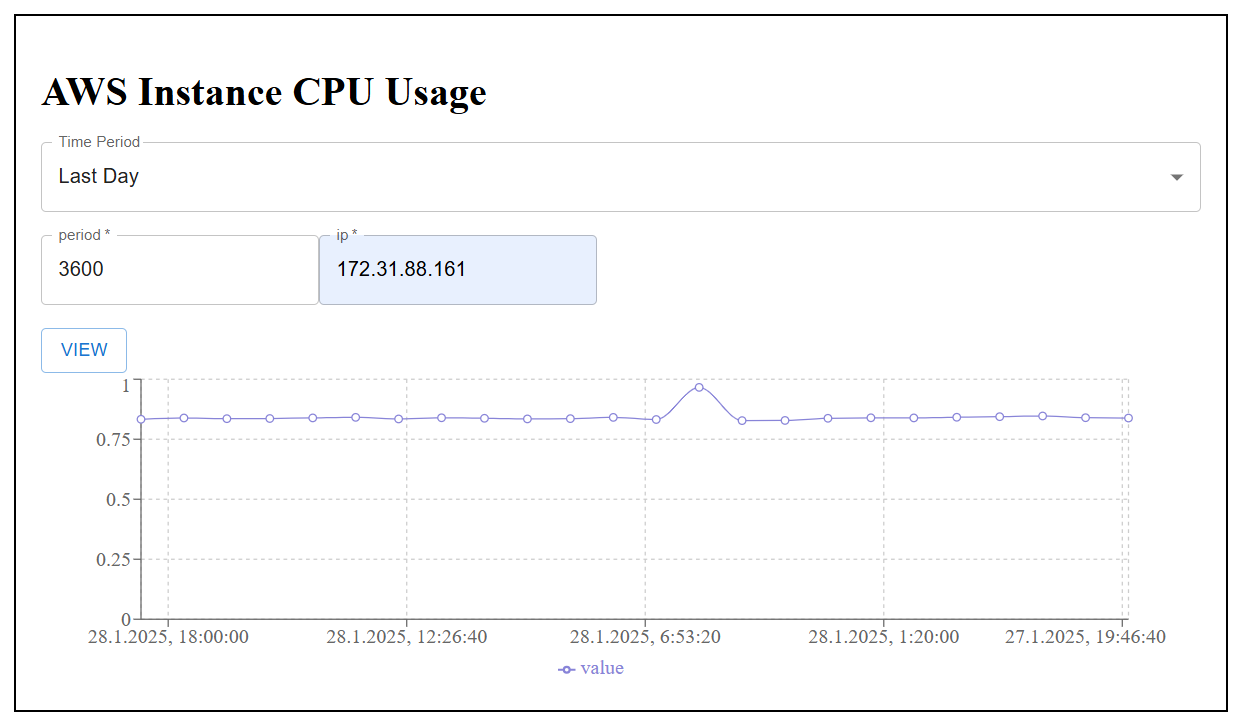
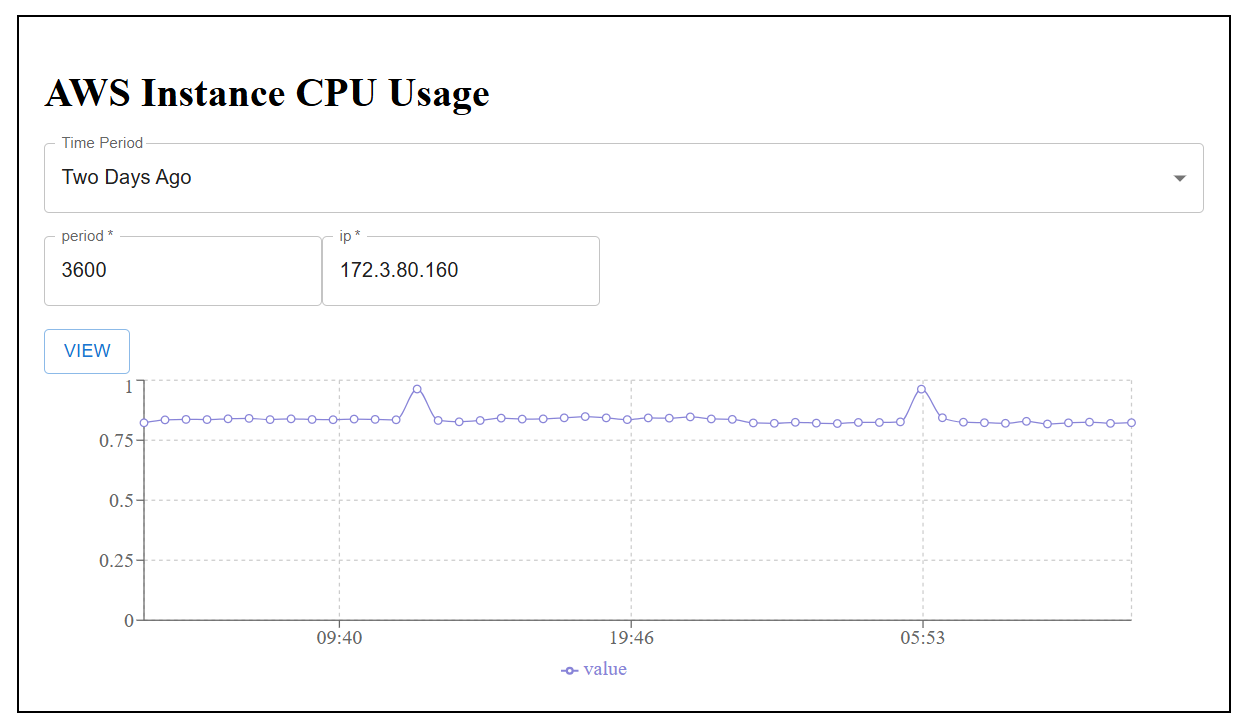
Change the time visibility in the chart

diff --git a/src/CpuUsage/index.jsx b/src/CpuUsage/index.jsx
@@ -110,7 +110,7 @@ function CpuUsage() {
                 dataKey="timestamp"
                 type="Date"
                 domain={['auto', 'auto']}
-                tickFormatter={(unixTime) => new Date(unixTime).toLocaleString()}
+                tickFormatter={(unixTime) => new Date(unixTime).toLocaleTimeString(navigator.language, {hour: '2-digit', minute:'2-digit'})}
                />
                 <YAxis 
                 />
